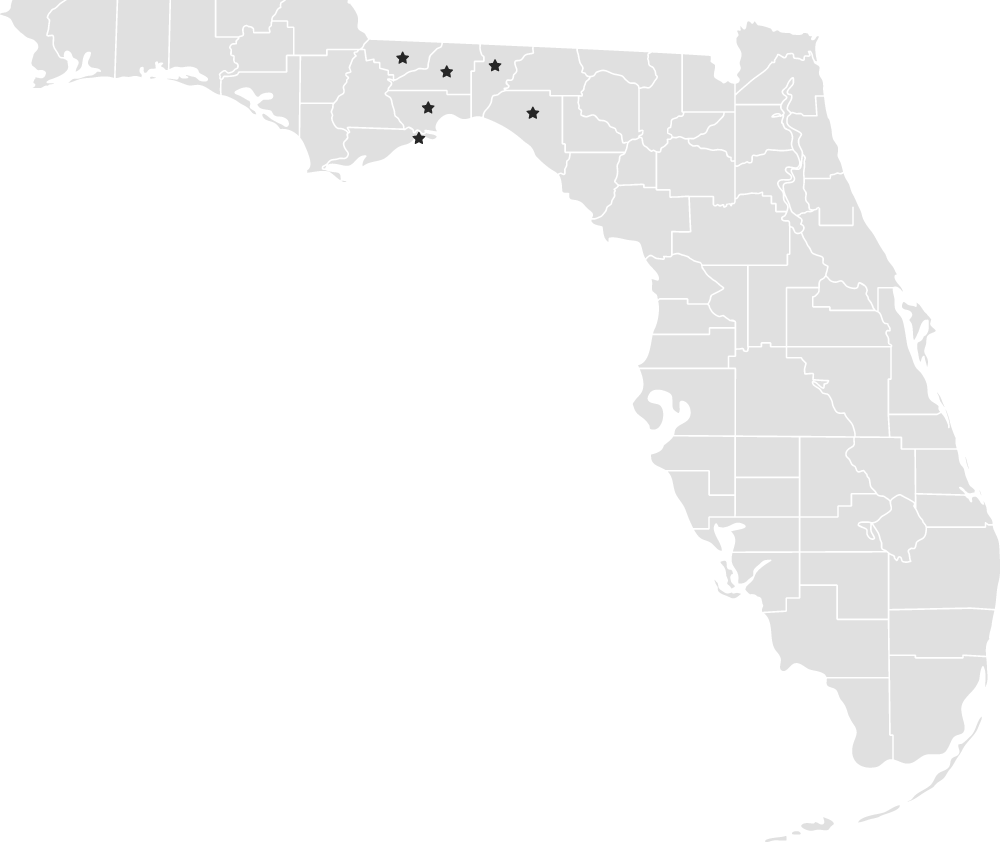
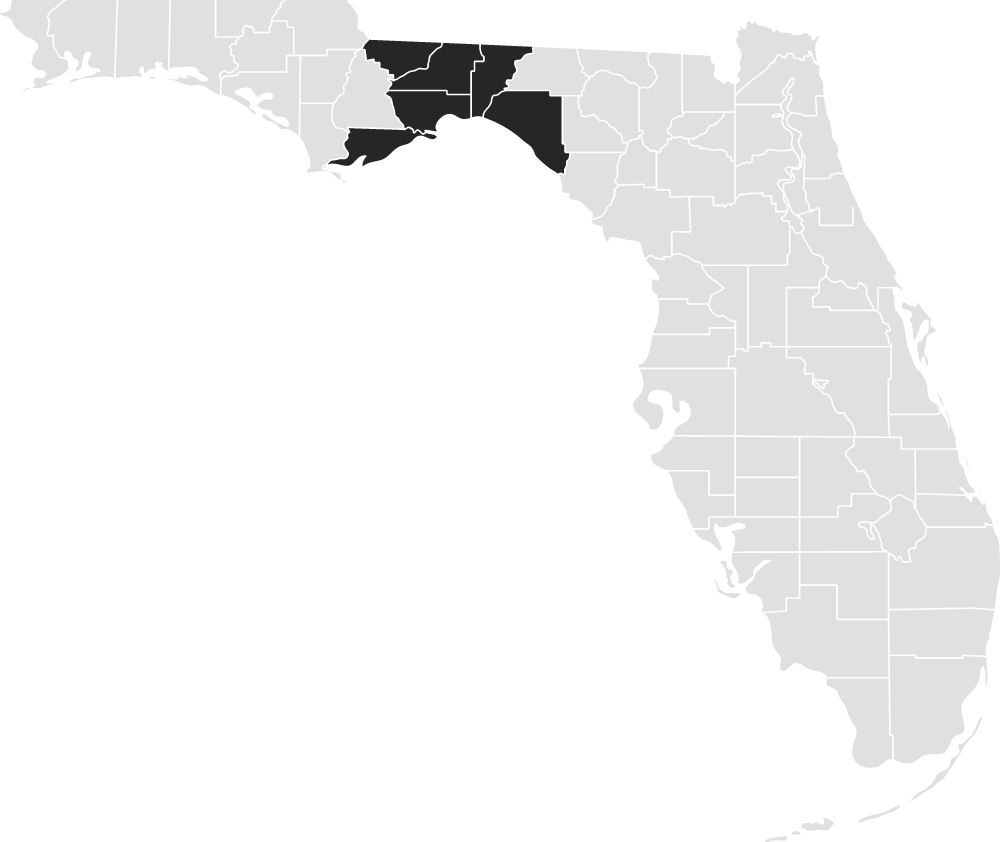
mls maps update

Changed region(s): [[0.341, 0.0309, 0.589, 0.2162]]

diff --git a/resources/views/admin/store/add-edit-product.blade.php b/resources/views/admin/store/add-edit-product.blade.php
@@ -106,12 +106,12 @@
                             </div>
                             <div class="form-group col-12 col-lg-2 col-md-4">
                                 <label for="">Price</label>
-                                <input type="number" name="price" class="form-control"
+                                <input type="number" name="price" class="form-control" step="0.01"
                                     value="{{ $product ? $product->price : '' }}">
                             </div>
                             <div class="form-group col-12 col-lg-2 col-md-4">
                                 <label for="">Sale Price</label>
-                                <input type="number" name="sale_price" class="form-control"
+                                <input type="number" name="sale_price" class="form-control" step="0.01"
                                     value="{{ $product ? $product->sale_price : '' }}">
                             </div>
                             <div class="form-group col-12 col-lg-2 col-md-4">
@@ -183,13 +183,13 @@
                                                     </div>
                                                     <div class="form-group col p-0 m-0 mr-1">
                                                         <label for="" class="label">Price</label>
-                                                        <input type="number"
+                                                        <input type="number" step="0.01"
                                                             name="variant_values[{{ $key }}][price]"
                                                             class="form-control" value="{{ $row->price }}">
                                                     </div>
                                                     <div class="form-group col p-0 m-0 mr-1">
                                                         <label for="" class="label">Sale Price</label>
-                                                        <input type="number"
+                                                        <input type="number" step="0.01"
                                                             name="variant_values[{{ $key }}][sale_price]"
                                                             class="form-control" value="{{ $row->sale_price }}">
                                                     </div>
@@ -220,11 +220,15 @@
                                     @if ($product && $product->inputs->count())
                                         @foreach ($product->inputs as $key => $row)
                                             <div class="col-12 p-0 mt-2 input-box d-flex align-items-center">
-                                                <input type="text" name="form[{{ $key }}][input_name]" class="form-control mr-2"
-                                                    value="{{ $row->input_name }}">
+                                                <input type="text" name="form[{{ $key }}][input_name]"
+                                                    class="form-control mr-2" value="{{ $row->input_name }}">
                                                 <div class="form-check">
-                                                    <input class="form-check-input" type="checkbox" @if($row->is_file) checked @endif name="form[{{ $key }}][is_file]" value="1" id="flexCheckDefault">
-                                                    <label class="form-check-label label-is-file p-0 m-0" for="flexCheckDefault">
+                                                    <input class="form-check-input" type="checkbox"
+                                                        @if ($row->is_file) checked @endif
+                                                        name="form[{{ $key }}][is_file]" value="1"
+                                                        id="flexCheckDefault">
+                                                    <label class="form-check-label label-is-file p-0 m-0"
+                                                        for="flexCheckDefault">
                                                         Is File
                                                     </label>
                                                 </div>
@@ -308,11 +312,13 @@
                 '</div>' +
                 '<div class="form-group col p-0 m-0 mr-1">' +
                 '<label for="" class="label">Price</label>' +
-                '<input type="number" name="variant_values[' + variant_count + '][price]" class="form-control">' +
+                '<input type="number" step="0.01" name="variant_values[' + variant_count +
+                '][price]" class="form-control">' +
                 '</div>' +
                 '<div class="form-group col p-0 m-0 mr-1">' +
                 '<label for="" class="label">Sale Price</label>' +
-                '<input type="number" name="variant_values[' + variant_count + '][sale_price]" class="form-control">' +
+                '<input type="number" step="0.01" name="variant_values[' + variant_count +
+                '][sale_price]" class="form-control">' +
                 '</div>' +
                 '<div class="form-group col p-0 m-0 mr-1">' +
                 '<label for="" class="label">Stock</label>' +
@@ -326,7 +332,7 @@
 
         function add_new_input() {
             let numRows = 1;
-            $('#form-box').each( function() {
+            $('#form-box').each(function() {
                 numRows = $('.input-box', $(this)).length
             })
             var html = `<div class="col-12 p-0 mt-2 input-box d-flex align-items-center p-0">
@@ -405,7 +411,7 @@
 @endsection
 @endsection
 <style>
-    .label-is-file {
-        width: 63px;
-    }
+.label-is-file {
+    width: 63px;
+}
 </style>

diff --git a/resources/views/pages/mls/mls-directory.blade.php b/resources/views/pages/mls/mls-directory.blade.php
@@ -40,7 +40,7 @@
 @section('content')
     <div class="container-fluid">
         <h1 class="text-center">MLS Directory</h1>
-        
+
         <div class="row my-5">
             <div class="col-md-6">
                 <h2>The MIAMI Association of Realtors</h2>
@@ -163,12 +163,12 @@
                 <h2>The Naples Area Board of REALTORS</h2>
                 <p>MLS Name: SWFLMLS</p>
                 <p>Phone: <a href="tel:239.597.1666">239.597.1666</a></p>
-                <p>Website To Join: <a
-                        href="https://www.nabor.com/membership/join">Click
+                <p>Website To Join: <a href="https://www.nabor.com/membership/join">Click
                         Here</a>
                 </p>
                 <p>Primary Cost: $611.25</p>
-                <p>Secondary Cost: $135.42 (active in another Florida board) <br> $395.42 (not active in another florida board)</p>
+                <p>Secondary Cost: $135.42 (active in another Florida board) <br> $395.42 (not active in another florida
+                    board)</p>
                 <p>Reciprocal listing: No</p>
             </div>
             <div class="col-md-6">
@@ -182,7 +182,8 @@
                 <p>MLS Name: Florida Gulf Coast MLS</p>
                 <p>Phone: <a href="tel:(239)-936-3537">(239)-936-3537</a></p>
                 <p>Website To Join: <a href="https://rpcra.org/index.php/en/membership/join">Click Here</a></p>
-                <p>Secondary Membership: <a href="https://swflrealtors.formstack.com/forms/membership_app__agent">Click Here</a></p>
+                <p>Secondary Membership: <a href="https://swflrealtors.formstack.com/forms/membership_app__agent">Click
+                        Here</a></p>
                 <p>Primary Membership Cost: $590.83</p>
                 <p>Secondary Membership Cost: $375</p>
                 <p>Reciprocal Listings: $200</p>
@@ -193,7 +194,7 @@
                 </ul>
             </div>
             <div class="col-md-6">
-                <!-- <img src="/images/mls/map7.png" alt="" class="map-image"> -->
+                <img src="/images/mls/map.png" alt="" class="map-image">
             </div>
         </div>
         <hr>
@@ -203,7 +204,8 @@
                 <p>MLS Name: Stellar MLS</p>
                 <p>Phone: <a href="tel:(407)- 846-0117">(407)- 846-0117</a></p>
                 <p>Website To Join: <a href="https://www.osceolarealtors.org/become-a-member/">Click Here</a></p>
-                <p>Secondary Membership: <a href="https://www.osceolarealtors.org/index.php?src=pages&ref=membership-forms">Click Here</a></p>
+                <p>Secondary Membership: <a
+                        href="https://www.osceolarealtors.org/index.php?src=pages&ref=membership-forms">Click Here</a></p>
                 <p>Primary Membership Cost: $1138.75</p>
                 <p>Secondary Membership Cost: $922.92</p>
                 <p>Reciprocal Listings: Yes $125.00 per listing</p>
@@ -220,7 +222,8 @@
                 <p>MLS Name: Stellar MLS</p>
                 <p>Phone: <a href="tel:(813)879-7010">(813)879-7010</a></p>
                 <p>Website To Join: <a href="https://www.tamparealtors.org/membership/">Click Here</a></p>
-                <p>Secondary Membership: <a href="https://analytics.clickdimensions.com/cn/aba7v/NewMemberApp">Click Here</a></p>
+                <p>Secondary Membership: <a href="https://analytics.clickdimensions.com/cn/aba7v/NewMemberApp">Click
+                        Here</a></p>
                 <p>Primary Membership Cost: $1,114.00</p>
                 <p>Secondary Membership Cost: $723.17</p>
                 <p>Reciprocal Listings: Yes $125.00 per listing</p>

diff --git a/app/Http/Controllers/LuxeStore/OrderController.php b/app/Http/Controllers/LuxeStore/OrderController.php
@@ -485,17 +485,17 @@ class OrderController extends Controller
             $form_inputs = null;
             if ($product->inputs->count()) {
                 $form_inputs = [];
-
-                foreach ($form as $key => $value) {
-                    $is_file = false;
-                    if ($value instanceof UploadedFile) {
-                        $name = time() . Str::random(10) . '.' . $value->getClientOriginalExtension();
-                        $path = $value->storeAs('/order_images', $name, 'public');
-                        $value = $path;
-                        $is_file = true;
+                if ($form)
+                    foreach ($form as $key => $value) {
+                        $is_file = false;
+                        if ($value instanceof UploadedFile) {
+                            $name = time() . Str::random(10) . '.' . $value->getClientOriginalExtension();
+                            $path = $value->storeAs('/order_images', $name, 'public');
+                            $value = $path;
+                            $is_file = true;
+                        }
+                        $form_inputs[] = ['input' => LuxeStoreProductForm::select('id', 'input_name')->where('input_value', $key)->firstOrFail()->toArray(), 'value' => $value, 'is_file' => $is_file];
                     }
-                    $form_inputs[] = ['input' => LuxeStoreProductForm::select('id', 'input_name')->where('input_value', $key)->firstOrFail()->toArray(), 'value' => $value, 'is_file' => $is_file];
-                }
             }
 
             $variant_input = null;
